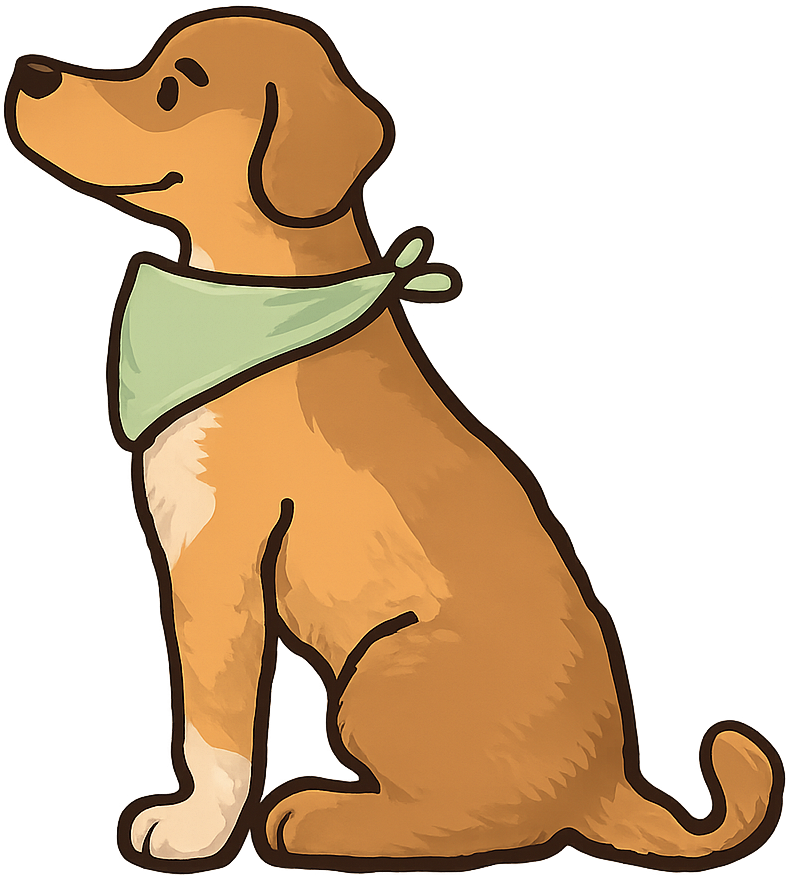
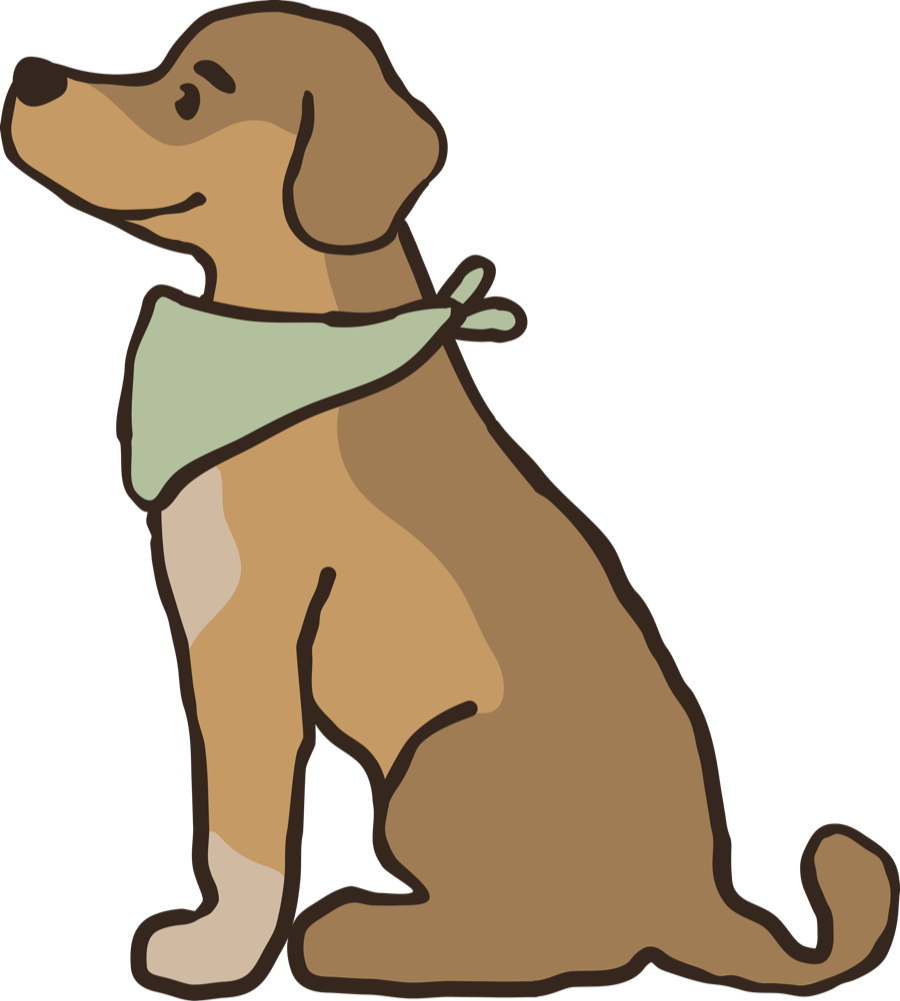
Trocar as imagens da marca pelos arquivos do brandbook (#8)
A equipe reparou que as cores do site não eram as da marca. A correção
anterior mexeu só no CSS (fundo, texto, botões); o logotipo e o desenho
da Maya são arquivos de imagem, e esses continuavam os que vieram no
"Commit Inicial" — byte a byte iguais, nunca tocados.

Medindo as cores dominantes de cada arquivo contra a paleta da página 16
do brandbook (MARROM #564334, VERDE #B2C09D, BEGE #D9D3D3, AZUL #96B6D3):

  logo-2.png   marrom #633A1C      -> #564334 (61,6% da imagem)
  maya-hero    pelo #F0A859/#C78343 -> #9F7C54 / #C59A64
  bandana      verde claro          -> #B2C09D

É o mesmo desenho nos dois casos, mas repintado: os arquivos antigos têm
milhares de tons em degradê e contorno preto, enquanto os oficiais são
chapados, com cinco cores e contorno marrom.

Os arquivos antigos também eram pequenos demais — o logotipo tinha 419px
de largura contra 6421px do oficial, e por isso saía borrado em tela
grande e no celular. Os novos vão em tamanhos escolhidos pelo maior uso
em tela, com folga para retina:

  logo.png        1200x446   (maior uso: h-32 em /doacoes/sucesso)
  logo-2.png       900x156   (h-12 no cabeçalho)
  logo-bege.png    900x156   (h-10 no rodapé)
  maya-hero.png    900x1001  (w-64 no hero)

O hero até encolheu de 712 KB para 168 KB, porque cor chapada comprime
muito melhor que degradê.

Duas coisas que vieram junto:

O rodapé é marrom e usava o logotipo marrom forçado a branco por filtro
[…]

diff --git a/components/Footer.tsx b/components/Footer.tsx
@@ -46,10 +46,14 @@ export default function Footer() {
           {/* Logo e Missão */}
           <div className="col-span-1 sm:col-span-2">
             <div className="flex items-center mb-4">
-              <img 
-                src="/logo-2.png" 
-                alt="Projeto Maya" 
-                className="h-10 w-auto brightness-0 invert"
+              {/* Sobre fundo marrom o brandbook aplica a versão bege do
+                  logotipo (página 13), que mantém a Maya colorida. Antes
+                  era o logotipo marrom forçado a branco por filtro CSS
+                  (brightness-0 invert), o que apagava o desenho dela. */}
+              <img
+                src="/logo-bege.png"
+                alt="Projeto Maya"
+                className="h-10 w-auto"
               />
             </div>
             <p className="text-white/70 mb-6 max-w-md leading-relaxed">

diff --git a/app/doador/registro/page.tsx b/app/doador/registro/page.tsx
@@ -67,8 +67,8 @@ export default function DoadorRegistroPage() {
             <Image
               src="/logo.png"
               alt="Projeto Maya"
-              width={388}
-              height={141}
+              width={1200}
+              height={446}
               quality={100}
               className="h-24 w-auto drop-shadow-2xl dark:brightness-0 dark:invert"
             />

diff --git a/app/doador/login/page.tsx b/app/doador/login/page.tsx
@@ -87,8 +87,8 @@ function DoadorLoginForm() {
             <Image
               src="/logo.png"
               alt="Projeto Maya"
-              width={388}
-              height={141}
+              width={1200}
+              height={446}
               quality={100}
               className="h-24 w-auto drop-shadow-2xl dark:brightness-0 dark:invert"
             />

diff --git a/components/home/Hero.tsx b/components/home/Hero.tsx
@@ -16,8 +16,8 @@ export default function Hero() {
         <Image
           src="/images/maya-hero.png"
           alt="Maya - Mascote do Projeto"
-          width={1200}
-          height={1200}
+          width={900}
+          height={1001}
           className="w-36 md:w-48 lg:w-64 h-auto object-contain"
           priority
           quality={100}

diff --git a/app/admin/page.tsx b/app/admin/page.tsx
@@ -216,8 +216,8 @@ export default function AdminDashboard() {
             <Image 
               src="/logo.png" 
               alt="Projeto Maya" 
-              width={64}
-              height={64}
+              width={1200}
+              height={446}
               className="h-16 w-auto hidden sm:block"
             />
             <div>
